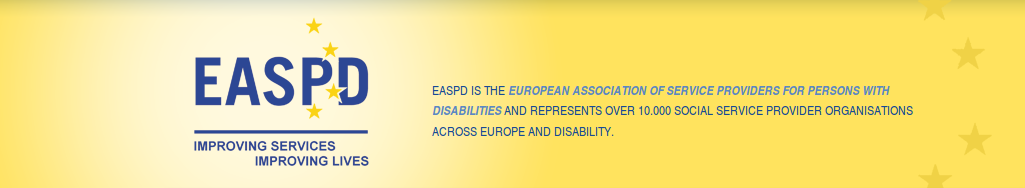
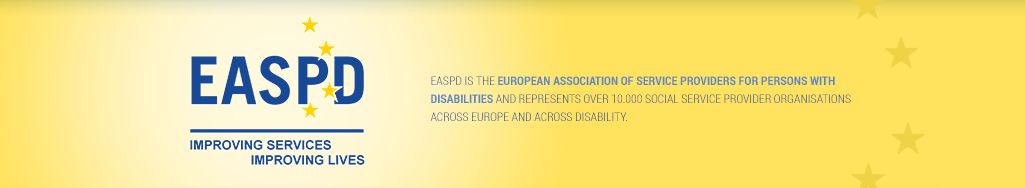
cosmétique newsletter

diff --git a/sites/all/themes/easpd/templates/simplenews-newsletter-body.tpl.php b/sites/all/themes/easpd/templates/simplenews-newsletter-body.tpl.php
@@ -35,7 +35,7 @@
     <td class="body-top"></td>
   </tr>
 	<tr>
-		<td class="fond-jaune-pale"></td>
+		<td class="fond-jaune"></td>
 		<td class="header container" >				
     <img src="<?php print base_path() . 'sites/all/themes/easpd/images/newsletter_header.png'; ?>" />
 		</td>
@@ -58,15 +58,18 @@
 <table bgcolor="#ECF2F9" cellspacing="0" cellpadding="0" class="body-wrap">
 	<tr>
     <td style="min-width: 10px;"></td>
-		<td class="container">
+		<td class="container white-bg">
 
 			<table>
+        <tr style="height: 20px;"></tr>
 				<tr>
-		 			<td class="container">
+          <td style="min-width: 10px;"></td>
+		 			<td class="container main">
 
            <?php print render($build); ?>												
 						
 					</td>
+          <td style="min-width: 10px;"></td>
 				</tr>
 			</table>
 									
